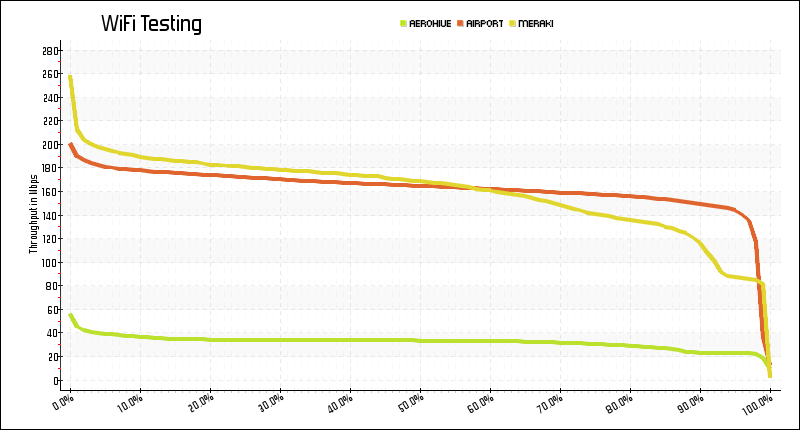
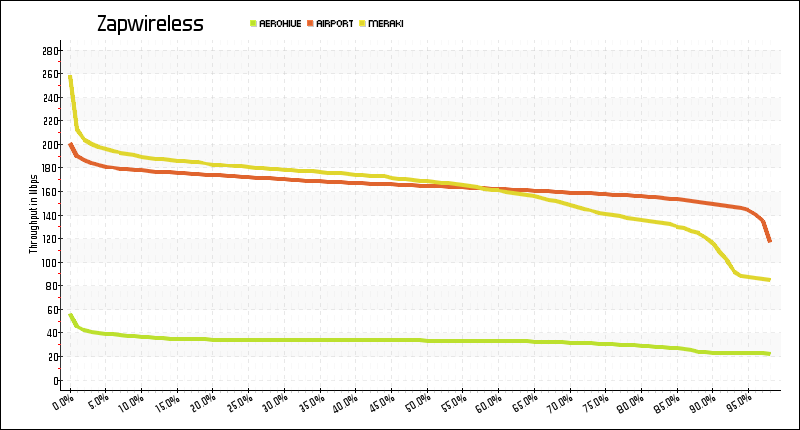
visual tweaks

diff --git a/graphit.php b/graphit.php
@@ -47,8 +47,8 @@ $results = array(); foreach ($csv as $x => $line) {
 // create pchart object
 $data = new pData();
 
-// build our X axis label
-for ($x = 0; $x <= 100; $x ++) {
+// build our labels - cutoff at 98 percent
+for ($x = 0; $x < 99; $x ++) {
     // add the label
     $labels[] = $x.'.0%';
 }
@@ -67,7 +67,7 @@ foreach ($results as $res) {
     // add points with tag for this results
     $data->addPoints($points, $res['Tag']);
     // increase line weight
-    $data->setSerieWeight($res['Tag'],1.5);
+    $data->setSerieWeight($res['Tag'], 1.5);
 }
 
 // set vertical axis
@@ -75,11 +75,12 @@ $data->setAxisName(0, "Throughput in Mbps");
 //$data->setAxisUnit(0, "mbps");
 
 // add labels
-$data->addPoints($labels, "Labels");
+$data->addPoints($labels, "labels");
 
-// set abcissa series (horizontal axis)
-$data->setSerieDescription("Labels", "Percentile");
-$data->setAbscissa("Labels");
+// set abcissa series - horizontal axis
+$data->setXAxisName("Percentile");
+$data->setSerieDescription("labels", "Percentile");
+$data->setAbscissa("labels");
 
 // create the chart
 $chart = new pImage(800,430, $data);
@@ -92,7 +93,7 @@ $chart->drawRectangle(0,0,799,429,array("R"=>0,"G"=>0,"B"=>0));
 
 // draw title
 $chart->setFontProperties(array("FontName"=>"pChart/fonts/Forgotte.ttf","FontSize"=>12));
-$chart->drawText(150,35,"WiFi Testing",array("FontSize"=>20,"Align"=>TEXT_ALIGN_BOTTOMMIDDLE));
+$chart->drawText(150,35,"Zapwireless",array("FontSize"=>20,"Align"=>TEXT_ALIGN_BOTTOMMIDDLE));
 
 // set default font
 $chart->setFontProperties(array("FontName"=>"pChart/fonts/Forgotte.ttf","FontSize"=>10));
@@ -102,9 +103,8 @@ $chart->setGraphArea(60,40,780,390);
 
 // draw scale
 $scale = array(
-    "XMargin"=>10,"YMargin"=>10,"Floating"=>false,"GridR"=>200,"GridG"=>200,"GridB"=>200,
-    "DrawSubTicks"=>true,"CycleBackground"=>true,"Mode"=>SCALE_MODE_START0,"LabelSkip"=>9,
-    "LabelRotation"=>30,
+    "XMargin"=>10,"YMargin"=>10,"GridR"=>200,"GridG"=>200,"GridB"=>200,"DrawSubTicks"=>true,
+    "CycleBackground"=>true,"Mode"=>SCALE_MODE_START0,"LabelSkip"=>4,"LabelRotation"=>30,
 );
 $chart->drawScale($scale);
 
@@ -119,13 +119,13 @@ $chart->drawLineChart();
 $chart->setFontProperties(array("FontName"=>"pChart/fonts/pf_arma_five.ttf","FontSize"=>8));
 
 // draw legend
-$chart->drawLegend(400,20,array("Style"=>LEGEND_NOBORDER,"Mode"=>LEGEND_HORIZONTAL));
+$chart->drawLegend(250,20,array("Style"=>LEGEND_NOBORDER,"Mode"=>LEGEND_HORIZONTAL));
 
 // set filename
 $outs = preg_replace('/\.csv$/i','',$argv[1]) . "-graph.png";
 
 // render graphic
-$chart->autoOutput($outs);
+$chart->render($outs);
 
 // exit clean
 echo "Success: graph generated -> $outs\n";
